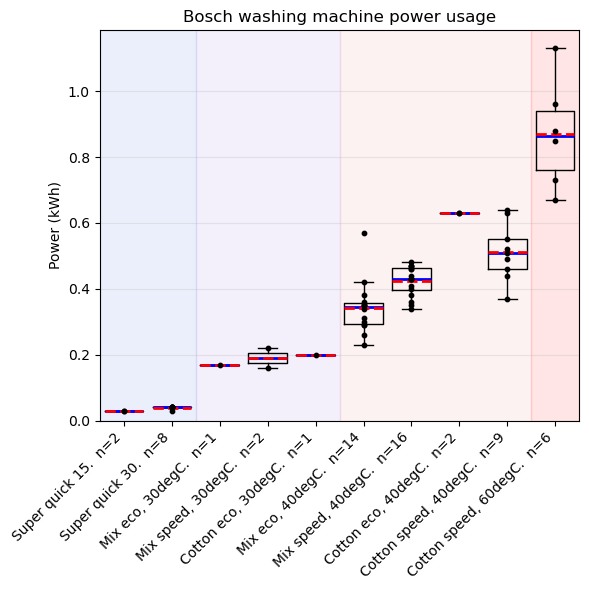
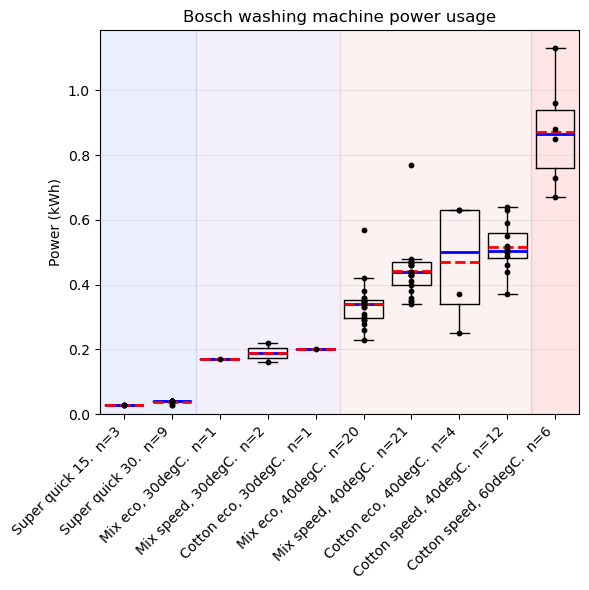
more data

diff --git a/plot_data.py b/plot_data.py
@@ -128,3 +128,51 @@ plt.title("Bosch washing machine power usage")
 plt.tight_layout()
 plt.savefig("plot_data.png", bbox_inches="tight")
 plt.show()
+
+
+
+# ------------------------------------------------------------
+# Statistical comparison: Mix speed vs Mix eco at 40 degC
+# ------------------------------------------------------------
+from scipy import stats
+
+eco = df.loc[
+    df["Cycle"].eq("Mix eco") & df["Temperature degC"].eq(40),
+    "Power usage kWh"
+].dropna()
+
+speed = df.loc[
+    df["Cycle"].eq("Mix speed") & df["Temperature degC"].eq(40),
+    "Power usage kWh"
+].dropna()
+
+mean_eco = eco.mean()
+mean_speed = speed.mean()
+sd_eco = eco.std(ddof=1)
+sd_speed = speed.std(ddof=1)
+
+# Welch's t-test
+test = stats.ttest_ind(speed, eco, equal_var=False)
+
+# Difference and 95% CI: speed - eco
+diff = mean_speed - mean_eco
+se = np.sqrt(sd_speed**2 / len(speed) + sd_eco**2 / len(eco))
+
+df_welch = (
+    (sd_speed**2 / len(speed) + sd_eco**2 / len(eco))**2
+    / (
+        (sd_speed**2 / len(speed))**2 / (len(speed) - 1)
+        + (sd_eco**2 / len(eco))**2 / (len(eco) - 1)
+    )
+)
+
+tcrit = stats.t.ppf(0.975, df_welch)
+ci_low = diff - tcrit * se
+ci_high = diff + tcrit * se
+
+print("\nMix speed vs Mix eco at 40degC")
+print(f"Mix speed: mean = {mean_speed:.3f} kWh, SD = {sd_speed:.3f}, n = {len(speed)}")
+print(f"Mix eco:   mean = {mean_eco:.3f} kWh, SD = {sd_eco:.3f}, n = {len(eco)}")
+print(f"Difference in means (speed - eco) = {diff:.3f} kWh")
+print(f"95% CI for difference = [{ci_low:.3f}, {ci_high:.3f}] kWh")
+print(f"Welch t-test: t = {test.statistic:.3f}, df = {df_welch:.1f}, p = {test.pvalue:.4g}")

diff --git a/README.md b/README.md
@@ -15,5 +15,10 @@
 
 - Power usage clearly depends on temperature.  A useful rule of thumb is power usage is $0.02\times(T - 20)$ kWh.  Viz, very small for cold washes, 0.2kWh for 30degC, 0.4kWh for 40degC, and 0.8kWh for 60degC.  Heating water is the dominant energy requirement.
 - Within one cycle type and temperature, there is substantial variation.  Anecdotally, I suspect the variation depends on type and amount of clothes to be washed
-- Mix speed at 40degC has a statistically higher power usage than Mix eco at 40degC.  The means and standard deviations are (0.424, 0.046)kWh and (0.343, 0.082)kWh, respectively.  Difference in means is 0.081kWh, 95% CI for difference is [0.029, 0.133]kWh, p value is 0.0039.
+- Mix speed at 40degC has a statistically higher power usage than Mix eco at 40degC.
+  - Mix speed: mean = 0.441 kWh, SD = 0.088, n = 21
+  - Mix eco:   mean = 0.340 kWh, SD = 0.070, n = 20
+  - Difference in means (speed - eco) = 0.102 kWh
+  - 95% CI for difference = [0.052, 0.152] kWh
+  - Welch t-test: t = 4.130, df = 37.8, p = 0.0001932
 
